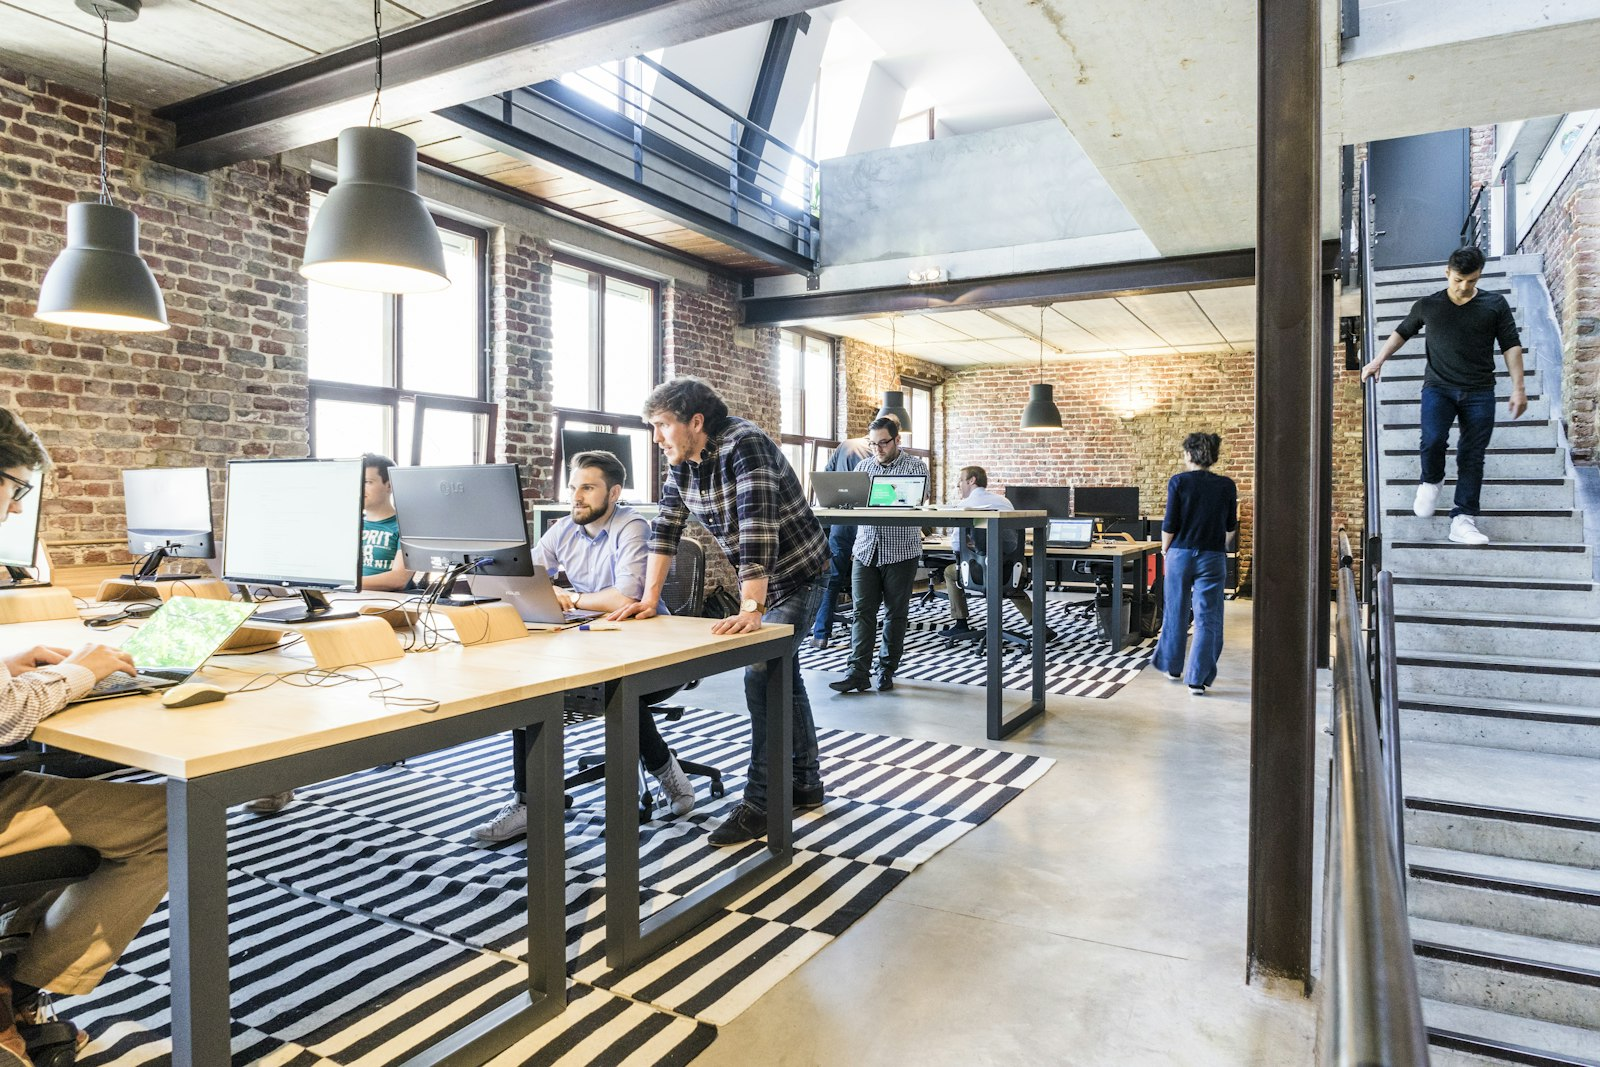
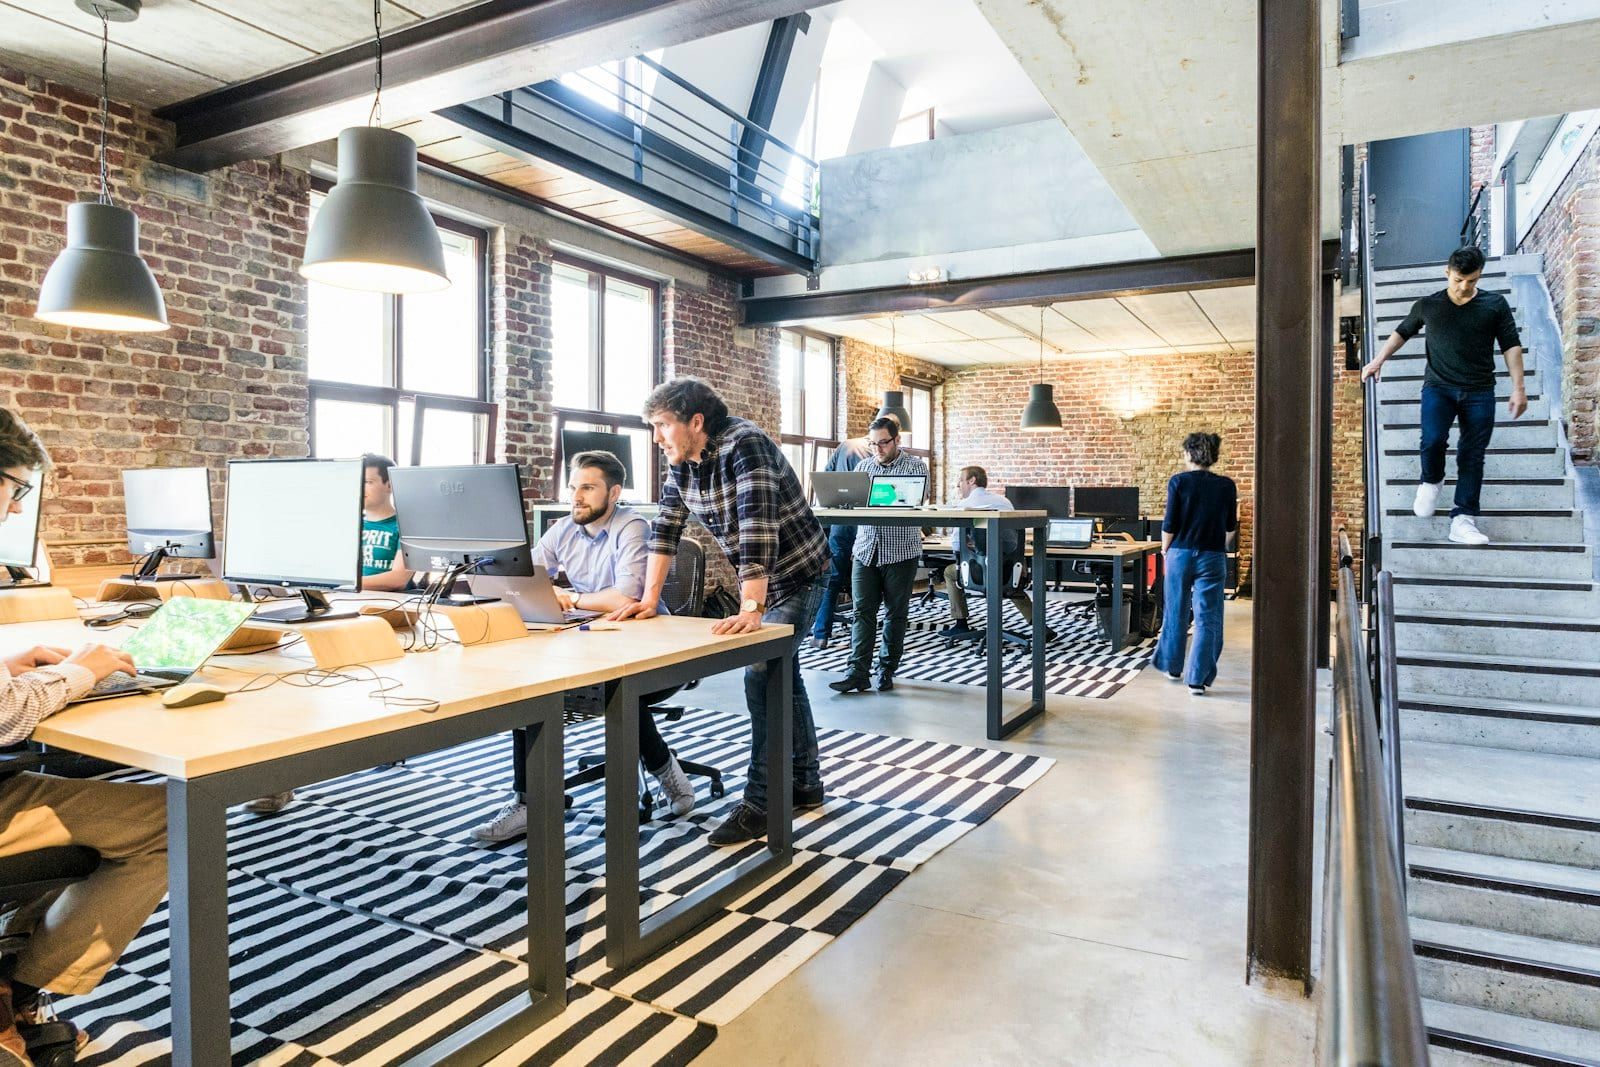
Pre-release cleanup: dead code, image weight, shared blocks, safer proxy headers
- Remove unused components (DashboardMockup, Carousel).
- Images: public/ 14 MB -> 7 MB. Project images > 200 KB to WebP
  (references updated), logos to palette PNG, heavy photos re-encoded.
- Shared ProductBlocks (SectionNav, Faq, DarkSteps) replace markup that
  was repeated in the NOVA, DMS Chat Bot and service pages.
- app.js under Passenger: trust !~Passenger-Client-Address, else the
  proxy-appended last X-Forwarded-For entry (never drop to a shared
  bucket); redirect to https only when explicitly marked http (no loop
  possible); log forwarding header NAMES once per process.

diff --git a/src/content/projects.ts b/src/content/projects.ts
@@ -35,7 +35,7 @@ export const clientProjects: ClientProject[] = [
         height: 600
       },
       {
-        src: "/images/projects/shalfa/03.jpg",
+        src: "/images/projects/shalfa/03.webp",
         width: 1000,
         height: 1000
       },
@@ -83,11 +83,11 @@ export const clientProjects: ClientProject[] = [
       en: "Selling mashalih, oud, oud oil, saffron, sadari, farawi, abayas, shawls, swords, and headbands"
     },
     link: "https://suqalzl.com/",
-    cover: "/images/projects/souq-alzel/01.png",
+    cover: "/images/projects/souq-alzel/01.webp",
     coverFit: "contain",
     gallery: [
       {
-        src: "/images/projects/souq-alzel/01.png",
+        src: "/images/projects/souq-alzel/01.webp",
         width: 400,
         height: 400
       }
@@ -130,11 +130,11 @@ export const clientProjects: ClientProject[] = [
       en: "100% safe, natural products"
     },
     link: null,
-    cover: "/images/projects/ana-tabiei/01.png",
+    cover: "/images/projects/ana-tabiei/01.webp",
     coverFit: "contain",
     gallery: [
       {
-        src: "/images/projects/ana-tabiei/01.png",
+        src: "/images/projects/ana-tabiei/01.webp",
         width: 1131,
         height: 1131
       }
@@ -218,11 +218,11 @@ export const clientProjects: ClientProject[] = [
       en: "We believe sports is a lifestyle, not just a workout — that's why we offer a curated selection of men's and women's activewear that combines comfort, quality, and style to suit various daily and athletic activities."
     },
     link: "https://vavitalksa.com/",
-    cover: "/images/projects/vavitalk/01.png",
+    cover: "/images/projects/vavitalk/01.webp",
     coverFit: "contain",
     gallery: [
       {
-        src: "/images/projects/vavitalk/01.png",
+        src: "/images/projects/vavitalk/01.webp",
         width: 1400,
         height: 600
       }
@@ -240,11 +240,11 @@ export const clientProjects: ClientProject[] = [
       en: "We offer you an authentic experience inspired by Kuwait's rich heritage, combining the finest premium nuts with carefully selected Kuwaiti Middle Eastern sweets to give you an exceptional taste for every occasion. At Zad Al-Mubarakiya, we're committed to high quality, authentic taste, and elegant packaging, making us your first choice for gifts, hospitality, and special occasions."
     },
     link: "https://zadalmubarakiya.com/",
-    cover: "/images/projects/zad-almubarakiya/01.png",
+    cover: "/images/projects/zad-almubarakiya/01.webp",
     coverFit: "contain",
     gallery: [
       {
-        src: "/images/projects/zad-almubarakiya/01.png",
+        src: "/images/projects/zad-almubarakiya/01.webp",
         width: 1206,
         height: 510
       }
@@ -265,11 +265,11 @@ export const clientProjects: ClientProject[] = [
       en: "A fast shipping company delivering within Riyadh in 3 to 4 hours"
     },
     link: "https://logex-ksa.com/",
-    cover: "/images/projects/logex/01.jpg",
+    cover: "/images/projects/logex/01.webp",
     coverFit: "contain",
     gallery: [
       {
-        src: "/images/projects/logex/01.jpg",
+        src: "/images/projects/logex/01.webp",
         width: 1080,
         height: 1080
       }
@@ -315,16 +315,16 @@ export const clientProjects: ClientProject[] = [
       en: "We offer a wide range of the finest fish and seafood at competitive prices"
     },
     link: "https://bahruna.zid.store/",
-    cover: "/images/projects/bahrna/02.png",
+    cover: "/images/projects/bahrna/02.webp",
     coverFit: "cover",
     gallery: [
       {
-        src: "/images/projects/bahrna/01.png",
+        src: "/images/projects/bahrna/01.webp",
         width: 483,
         height: 816
       },
       {
-        src: "/images/projects/bahrna/02.png",
+        src: "/images/projects/bahrna/02.webp",
         width: 958,
         height: 411
       }
@@ -342,11 +342,11 @@ export const clientProjects: ClientProject[] = [
       en: "Sarah Line is an abaya brand that combines modern elegance with luxurious detail, with designs made to complement your look and reflect your taste in a refined, distinctive style."
     },
     link: "https://bysarahline.zid.store/",
-    cover: "/images/projects/sarah-line/01.png",
+    cover: "/images/projects/sarah-line/01.webp",
     coverFit: "cover",
     gallery: [
       {
-        src: "/images/projects/sarah-line/01.png",
+        src: "/images/projects/sarah-line/01.webp",
         width: 1559,
         height: 667
       }
@@ -361,16 +361,16 @@ export const clientProjects: ClientProject[] = [
     category: null,
     description: null,
     link: "https://oreva.zid.store/",
-    cover: "/images/projects/oreva/02.png",
+    cover: "/images/projects/oreva/02.webp",
     coverFit: "cover",
     gallery: [
       {
-        src: "/images/projects/oreva/01.png",
+        src: "/images/projects/oreva/01.webp",
         width: 483,
         height: 816
       },
       {
-        src: "/images/projects/oreva/02.png",
+        src: "/images/projects/oreva/02.webp",
         width: 958,
         height: 411
       }

diff --git a/src/app/[locale]/dms-chat-bot/page.tsx b/src/app/[locale]/dms-chat-bot/page.tsx
@@ -8,6 +8,7 @@ import { Highlight, SectionHeading } from "@/components/ui/Section";
 import { Icon } from "@/components/ui/Icon";
 import { BrandIcon } from "@/components/ui/Brand";
 import TechBackdrop from "@/components/ui/TechBackdrop";
+import { DarkSteps, Faq, SectionNav } from "@/components/ui/ProductBlocks";
 import { FinalCta } from "@/components/home/Sections";
 
 export async function generateMetadata({ params }: { params: Promise<{ locale: string }> }): Promise<Metadata> {
@@ -65,13 +66,7 @@ export default async function ChatbotPage({ params }: { params: Promise<{ locale
               </span>
             </div>
           </div>
-          <nav aria-label={c.title} className="flex flex-wrap justify-center gap-2">
-            {c.sectionNav.map((s) => (
-              <a key={s.id} href={`#${s.id}`} className="rounded-pill border border-white/15 px-4 py-1.5 text-sm font-medium text-white/80 transition hover:bg-white/10 hover:text-white">
-                {s.label}
-              </a>
-            ))}
-          </nav>
+          <SectionNav label={c.title} items={c.sectionNav} />
         </div>
       </section>
 
@@ -199,20 +194,7 @@ export default async function ChatbotPage({ params }: { params: Promise<{ locale
             <h2 className="text-center text-3xl font-bold md:text-4xl">
               <Highlight text={c.methodTitle} />
             </h2>
-            <ol className="grid gap-px overflow-hidden rounded-card border border-white/10 bg-white/10 sm:grid-cols-2 lg:grid-cols-5">
-              {c.method.map((m, i) => (
-                <li key={m.title} className="grid content-start gap-3 bg-obsidian p-7">
-                  <span className="flex items-center justify-between">
-                    <span className="grid size-9 place-items-center rounded-icon bg-white/5 text-iris-light">
-                      <Icon name={m.icon} size={17} />
-                    </span>
-                    <span className="font-mono text-xs text-[#8d8e8f]">{String(i + 1).padStart(2, "0")}</span>
-                  </span>
-                  <h3 className="text-lg font-bold">{m.title}</h3>
-                  <p className="text-[15px] leading-relaxed text-[#b4b5b6]">{m.text}</p>
-                </li>
-              ))}
-            </ol>
+            <DarkSteps steps={c.method} />
             <div className="flex justify-center">
               <Link href={quote} className="btn btn-primary">
                 {c.ui.notify} <Icon name={arrow} size={17} />
@@ -226,17 +208,7 @@ export default async function ChatbotPage({ params }: { params: Promise<{ locale
       <section id="faq" className="section scroll-mt-24">
         <div className="container-site max-w-3xl">
           <SectionHeading title={c.faqTitle} />
-          <div className="grid gap-3">
-            {c.faq.map((f, i) => (
-              <details key={f.q} className="card group p-0 [&_summary::-webkit-details-marker]:hidden" open={i === 0}>
-                <summary className="flex cursor-pointer list-none items-center justify-between gap-4 p-6 text-lg font-semibold">
-                  {f.q}
-                  <Icon name="ChevronDown" size={20} className="shrink-0 text-graphite transition group-open:rotate-180" />
-                </summary>
-                <p className="px-6 pb-6 text-[15.5px] leading-relaxed text-iron">{f.a}</p>
-              </details>
-            ))}
-          </div>
+          <Faq items={c.faq} />
         </div>
       </section>
 

diff --git a/src/app/[locale]/nova-ai/page.tsx b/src/app/[locale]/nova-ai/page.tsx
@@ -8,6 +8,7 @@ import { Highlight, SectionHeading } from "@/components/ui/Section";
 import { Icon } from "@/components/ui/Icon";
 import { BrandIcon } from "@/components/ui/Brand";
 import TechBackdrop from "@/components/ui/TechBackdrop";
+import { DarkSteps, Faq, SectionNav } from "@/components/ui/ProductBlocks";
 
 export async function generateMetadata({ params }: { params: Promise<{ locale: string }> }): Promise<Metadata> {
   const { locale } = await params;
@@ -83,13 +84,7 @@ export default async function NovaPage({ params }: { params: Promise<{ locale: s
           </div>
 
           {/* in-page navigation */}
-          <nav aria-label="NOVA" className="mx-auto flex flex-wrap justify-center gap-2">
-            {c.sectionNav.map((s) => (
-              <a key={s.id} href={`#${s.id}`} className="rounded-pill border border-white/15 px-4 py-1.5 text-sm font-medium text-white/80 transition hover:bg-white/10 hover:text-white">
-                {s.label}
-              </a>
-            ))}
-          </nav>
+          <SectionNav label="NOVA" items={c.sectionNav} />
         </div>
       </section>
 
@@ -298,20 +293,7 @@ export default async function NovaPage({ params }: { params: Promise<{ locale: s
             <h2 className="text-center text-3xl font-bold md:text-4xl">
               <Highlight text={c.how.title} />
             </h2>
-            <ol className="grid gap-px overflow-hidden rounded-card border border-white/10 bg-white/10 sm:grid-cols-2 lg:grid-cols-4">
-              {c.how.steps.map((s, i) => (
-                <li key={s.title} className="grid content-start gap-3 bg-obsidian p-7">
-                  <span className="flex items-center justify-between">
-                    <span className="grid size-9 place-items-center rounded-icon bg-white/5 text-iris-light">
-                      <Icon name={s.icon} size={17} />
-                    </span>
-                    <span className="font-mono text-xs text-[#8d8e8f]">{String(i + 1).padStart(2, "0")}</span>
-                  </span>
-                  <h3 className="text-lg font-bold">{s.title}</h3>
-                  <p className="text-[15px] leading-relaxed text-[#b4b5b6]">{s.text}</p>
-                </li>
-              ))}
-            </ol>
+            <DarkSteps steps={c.how.steps} />
           </div>
         </div>
       </section>
@@ -351,17 +333,7 @@ export default async function NovaPage({ params }: { params: Promise<{ locale: s
       <section id="faq" className="section scroll-mt-24">
         <div className="container-site max-w-3xl">
           <SectionHeading title={c.faqTitle} />
-          <div className="grid gap-3">
-            {c.faq.map((f, i) => (
-              <details key={f.q} className="card group p-0 [&_summary::-webkit-details-marker]:hidden" open={i === 0}>
-                <summary className="flex cursor-pointer list-none items-center justify-between gap-4 p-6 text-lg font-semibold">
-                  {f.q}
-                  <Icon name="ChevronDown" size={20} className="shrink-0 text-graphite transition group-open:rotate-180" />
-                </summary>
-                <p className="px-6 pb-6 text-[15.5px] leading-relaxed text-iron">{f.a}</p>
-              </details>
-            ))}
-          </div>
+          <Faq items={c.faq} />
         </div>
       </section>
 

diff --git a/src/components/ui/ProductBlocks.tsx b/src/components/ui/ProductBlocks.tsx
@@ -1,0 +1,55 @@
+import { Icon, type IconName } from "@/components/ui/Icon";
+
+/** Building blocks shared by the product and service pages (NOVA AI, DMS Chat Bot, services). Server components. */
+
+/** In-page anchor pills under a dark hero. */
+export function SectionNav({ label, items }: { label: string; items: { id: string; label: string }[] }) {
+  return (
+    <nav aria-label={label} className="mx-auto flex flex-wrap justify-center gap-2">
+      {items.map((s) => (
+        <a key={s.id} href={`#${s.id}`} className="rounded-pill border border-white/15 px-4 py-1.5 text-sm font-medium text-white/80 transition hover:bg-white/10 hover:text-white">
+          {s.label}
+        </a>
+      ))}
+    </nav>
+  );
+}
+
+/** Accordion FAQ (native <details>: no JavaScript); the first answer starts open. */
+export function Faq({ items }: { items: { q: string; a: string }[] }) {
+  return (
+    <div className="grid gap-3">
+      {items.map((f, i) => (
+        <details key={f.q} className="card group p-0 [&_summary::-webkit-details-marker]:hidden" open={i === 0}>
+          <summary className="flex cursor-pointer list-none items-center justify-between gap-4 p-6 text-lg font-semibold">
+            {f.q}
+            <Icon name="ChevronDown" size={20} className="shrink-0 text-graphite transition group-open:rotate-180" />
+          </summary>
+          <p className="px-6 pb-6 text-[15.5px] leading-relaxed text-iron">{f.a}</p>
+        </details>
+      ))}
+    </div>
+  );
+}
+
+const STEP_COLS: Record<number, string> = { 3: "lg:grid-cols-3", 4: "lg:grid-cols-4", 5: "lg:grid-cols-5" };
+
+/** Numbered steps on a dark (.on-dark) section. */
+export function DarkSteps({ steps }: { steps: { icon: IconName; title: string; text: string }[] }) {
+  return (
+    <ol className={`grid gap-px overflow-hidden rounded-card border border-white/10 bg-white/10 sm:grid-cols-2 ${STEP_COLS[steps.length] ?? "lg:grid-cols-4"}`}>
+      {steps.map((s, i) => (
+        <li key={s.title} className="grid content-start gap-3 bg-obsidian p-7">
+          <span className="flex items-center justify-between">
+            <span className="grid size-9 place-items-center rounded-icon bg-white/5 text-iris-light">
+              <Icon name={s.icon} size={17} />
+            </span>
+            <span className="font-mono text-xs text-[#8d8e8f]">{String(i + 1).padStart(2, "0")}</span>
+          </span>
+          <h3 className="text-lg font-bold">{s.title}</h3>
+          <p className="text-[15px] leading-relaxed text-[#b4b5b6]">{s.text}</p>
+        </li>
+      ))}
+    </ol>
+  );
+}

diff --git a/app.js b/app.js
@@ -81,9 +81,21 @@ const siteOrigin = (() => {
     return null;
   }
 })();
+// last (rightmost) entry of a comma-separated forwarding header = the one added by the nearest proxy;
+// a client can only prepend values, never append after the proxy's own
+const lastEntry = (v) => String(v ?? "").split(",").map((s) => s.trim()).filter(Boolean).pop() ?? "";
+let headersReported = false;
 function fromPassenger(req, res) {
-  const proto = req.headers["!~passenger-proto"];
-  // plain HTTP → canonical HTTPS URL (never the client's Host header). ACME / AutoSSL validation stays on HTTP.
+  if (!headersReported) {
+    // once per process, NAMES only (never values): shows which forwarding headers this Passenger actually sends
+    headersReported = true;
+    const names = Object.keys(req.headers).filter((h) => h.startsWith("!~") || /^x-forwarded-|^x-real-ip$/.test(h));
+    log("info", "passenger_headers", { names });
+  }
+  const secureProto = req.headers["!~passenger-proto"];
+  const proto = secureProto === "https" || secureProto === "http" ? secureProto : lastEntry(req.headers["x-forwarded-proto"]).toLowerCase();
+  // plain HTTP → canonical HTTPS URL (never the client's Host header). Only when the request is explicitly marked http,
+  // so a missing header can never cause a redirect loop. ACME / AutoSSL validation stays on HTTP.
   if (proto === "http" && siteOrigin && !(req.url ?? "").startsWith("/.well-known/")) {
     res.statusCode = 308;
     res.setHeader("Location", siteOrigin + (req.url ?? "/"));
@@ -91,11 +103,17 @@ function fromPassenger(req, res) {
     res.end();
     return false;
   }
-  const client = String(req.headers["!~passenger-client-address"] ?? "").trim();
-  for (const h of ["x-forwarded-for", "x-real-ip", "x-forwarded-host"]) delete req.headers[h];
+  // client address: Passenger's unspoofable header, else the proxy-appended last X-Forwarded-For entry
+  const secureClient = String(req.headers["!~passenger-client-address"] ?? "").trim();
+  const client = isIP(secureClient) ? secureClient : lastEntry(req.headers["x-forwarded-for"]);
+  delete req.headers["x-forwarded-host"];
   if (isIP(client)) {
     req.headers["x-forwarded-for"] = client;
     req.headers["x-real-ip"] = client;
+  } else {
+    // nothing trustworthy: drop client-supplied values rather than letting them choose their rate-limit bucket
+    delete req.headers["x-forwarded-for"];
+    delete req.headers["x-real-ip"];
   }
   if (proto === "https" || proto === "http") req.headers["x-forwarded-proto"] = proto;
   return true;

diff --git a/src/app/[locale]/services/[slug]/page.tsx b/src/app/[locale]/services/[slug]/page.tsx
@@ -8,6 +8,7 @@ import { SectionHeading } from "@/components/ui/Section";
 import TechBackdrop from "@/components/ui/TechBackdrop";
 import { Icon } from "@/components/ui/Icon";
 import { FinalCta } from "@/components/home/Sections";
+import { Faq } from "@/components/ui/ProductBlocks";
 
 type Props = { params: Promise<{ locale: string; slug: string }> };
 
@@ -235,17 +236,7 @@ export default async function ServicePage({ params }: Props) {
         <section className="section bg-cloud">
           <div className="container-site max-w-3xl">
             <SectionHeading title={x.faqTitle} />
-            <div className="grid gap-3">
-              {service.faq.map((fq, i) => (
-                <details key={fq.q} className="card group p-0 [&_summary::-webkit-details-marker]:hidden" open={i === 0}>
-                  <summary className="flex cursor-pointer list-none items-center justify-between gap-4 p-6 text-lg font-semibold">
-                    {fq.q}
-                    <Icon name="ChevronDown" size={20} className="shrink-0 text-graphite transition group-open:rotate-180" />
-                  </summary>
-                  <p className="px-6 pb-6 text-[15.5px] leading-relaxed text-iron">{fq.a}</p>
-                </details>
-              ))}
-            </div>
+            <Faq items={service.faq} />
           </div>
         </section>
       )}
